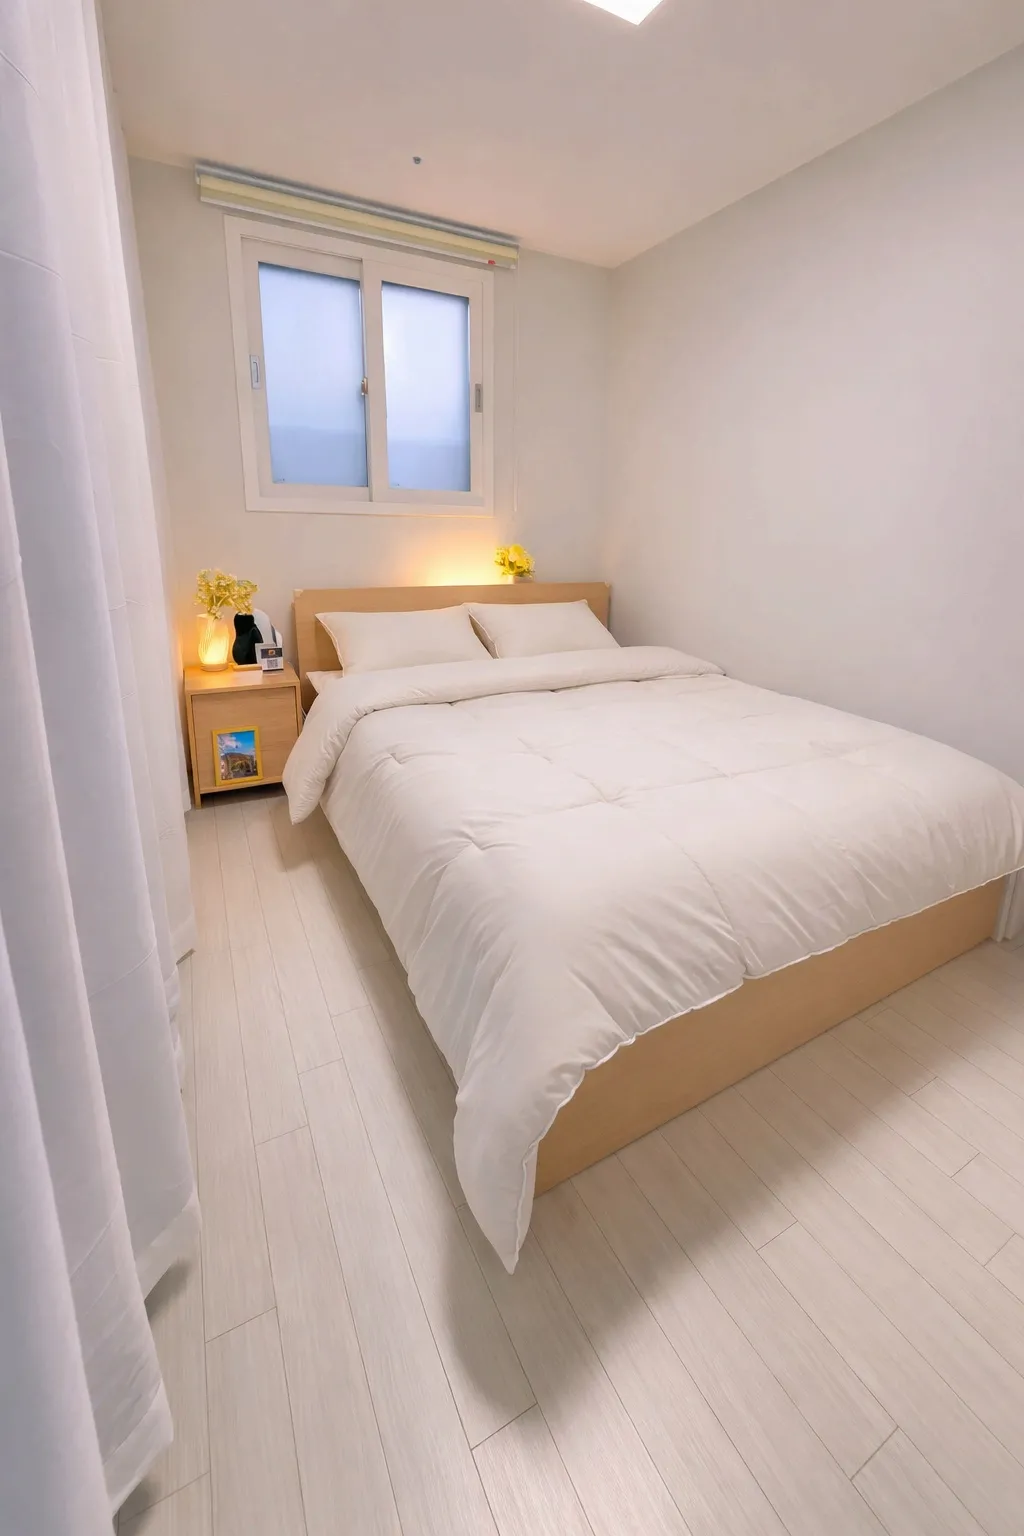
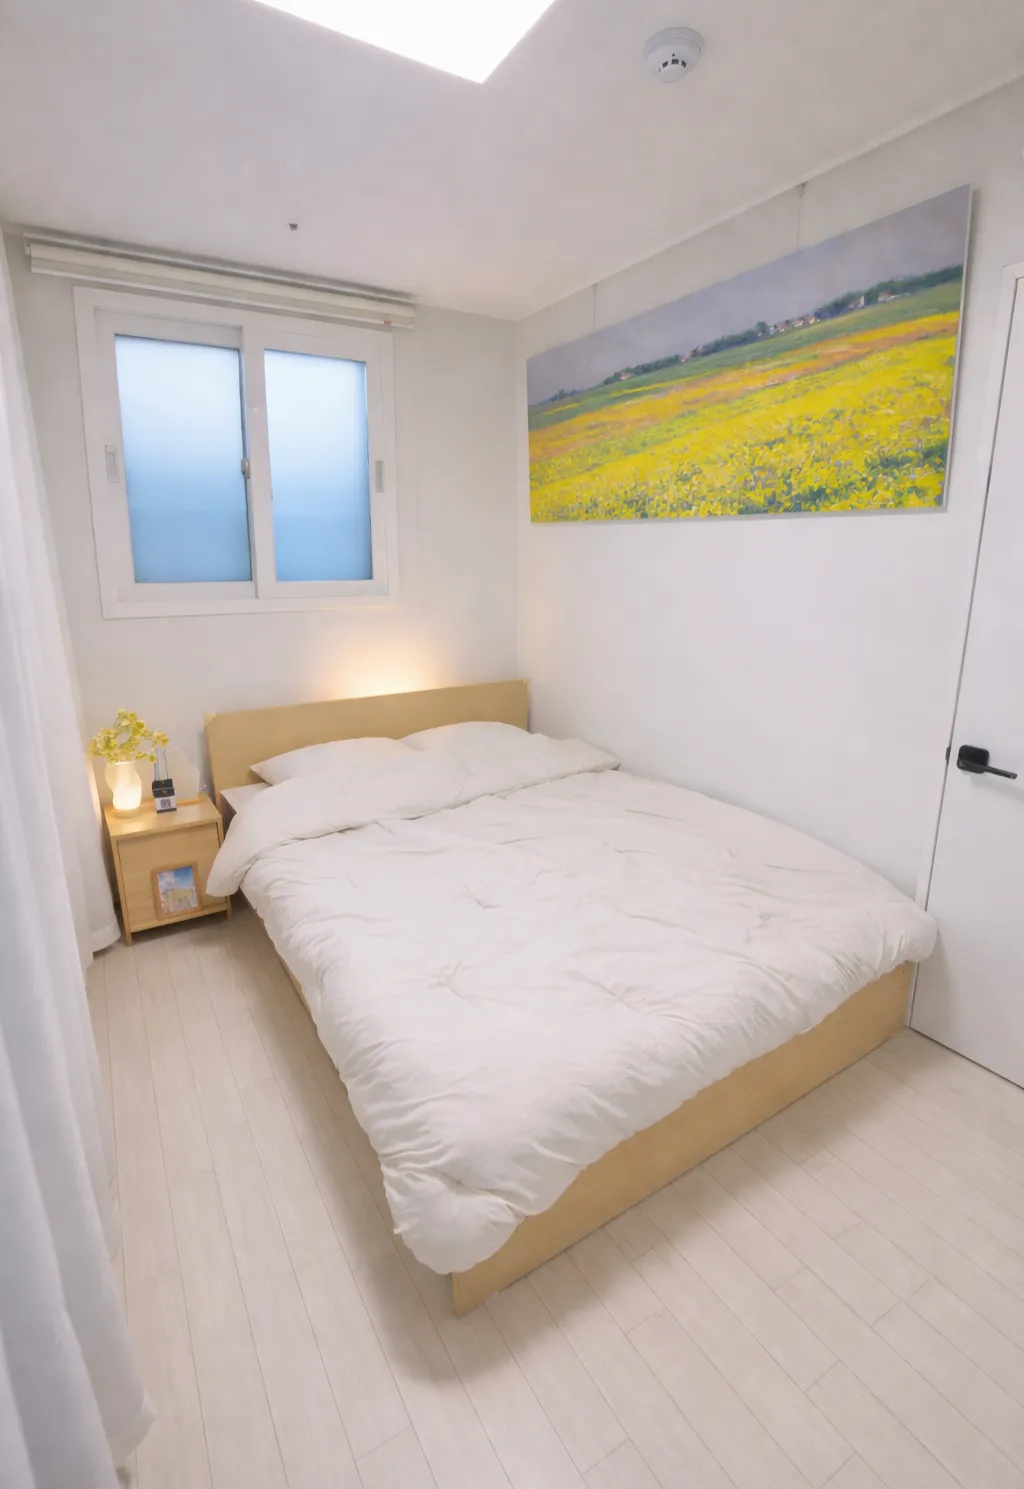
[feat] 버튼 효과 10s > 7s, 방2 사진 수정

diff --git a/src/App.css b/src/App.css
@@ -470,7 +470,7 @@ body {
   font-weight: 700;
   border-radius: 999px;
   box-shadow: 0 6px 18px rgba(244, 196, 48, 0.34);
-  animation: footerCtaSparkle 10s ease-in-out infinite;
+  animation: footerCtaSparkle 7s ease-in-out infinite;
 }
 
 .footer-cta-button::after {
@@ -479,7 +479,7 @@ body {
   inset: -20%;
   background: linear-gradient(120deg, transparent 35%, rgba(255, 255, 255, 0.2) 45%, rgba(255, 255, 255, 0.75) 50%, rgba(255, 255, 255, 0.2) 55%, transparent 65%);
   transform: translateX(-160%) skewX(-18deg);
-  animation: footerCtaShine 10s ease-in-out infinite;
+  animation: footerCtaShine 7s ease-in-out infinite;
   pointer-events: none;
 }
 
